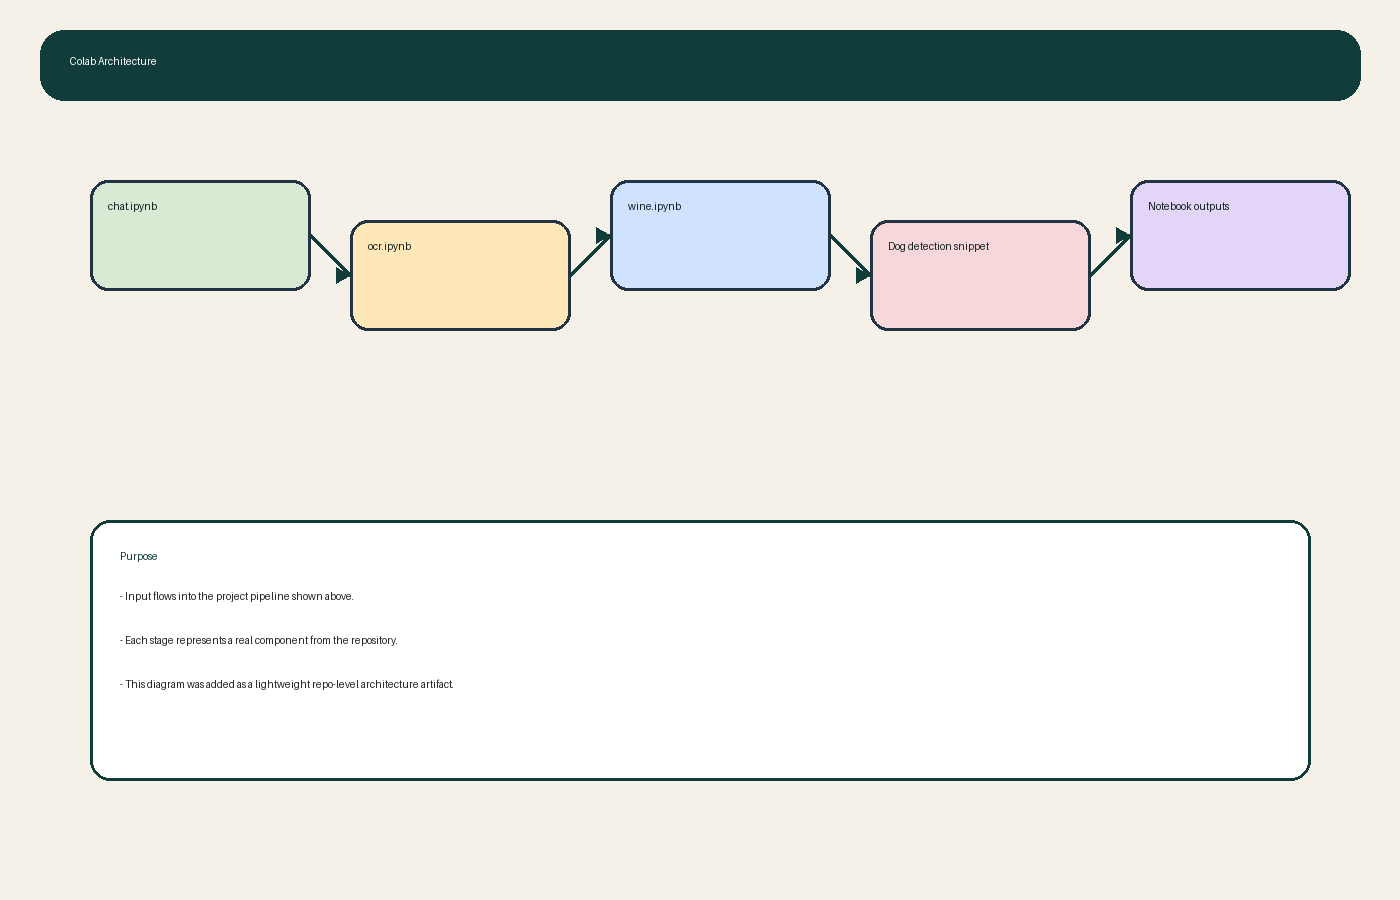
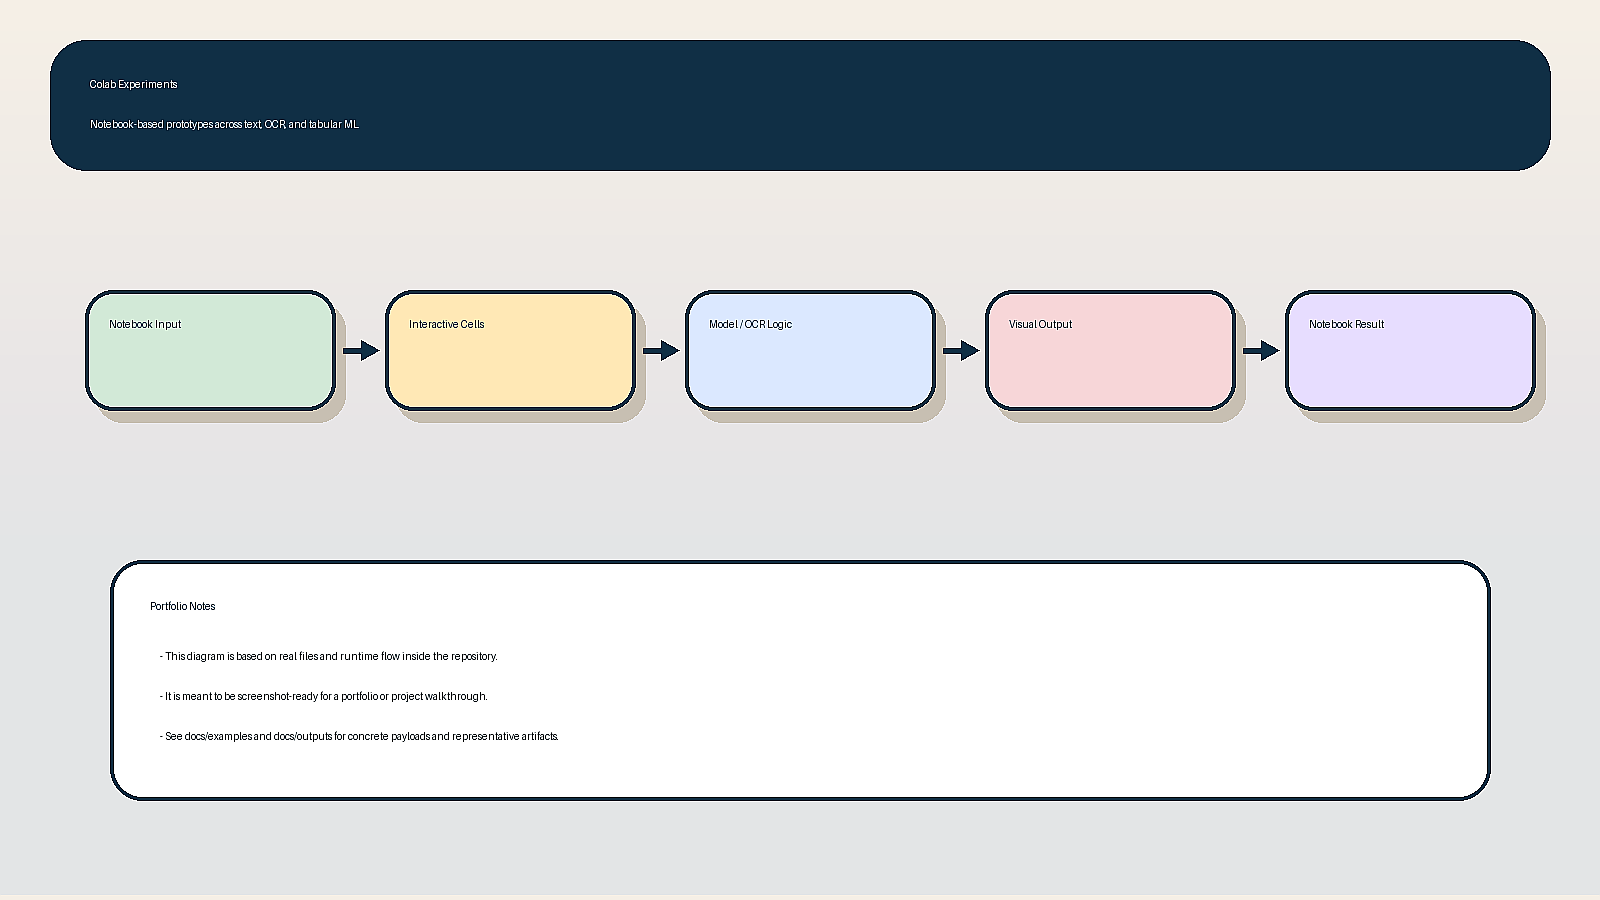
Polish architecture docs and add rich examples

Changed region(s): [[0.0307, 0.0311, 0.9829, 0.4978], [0.0614, 0.56, 0.9521, 0.9022]]

diff --git a/docs/sample_io.md b/docs/sample_io.md
@@ -1,24 +1,13 @@
 # Sample Inputs and Outputs
 
-## chat.ipynb
-### Sample input
-```text
-hello
-```
-### Sample output
-```text
-Hello!
-```
+## Example files
+- `examples/chat_session.txt`
+- `examples/ocr_result.txt`
+- `examples/wine_summary.csv`
+- `outputs/notebook_outputs.md`
 
-## ocr.ipynb
-### Sample input
-- `car.jpeg`
-### Sample output
-- extracted OCR text from the image
-- thresholded image visualization
-
-## wine.ipynb
-### Sample input
-- UCI red and white wine CSVs
-### Sample output
-- dataframe summaries, stats tables, and merged dataset preview
+## What these show
+- a representative chatbot dialogue
+- OCR extraction from an example image
+- tabular summary output from the wine notebook
+- notebook-level output notes for the repo

diff --git a/README.md b/README.md
@@ -84,3 +84,5 @@ flowchart TD
 - [Architecture diagram](docs/architecture.png)
 - [Evaluation logs and outputs](docs/evaluation.md)
 - [Sample inputs and outputs](docs/sample_io.md)
+- [Rich example assets](docs/examples/)
+- [Representative outputs](docs/outputs/)

diff --git a/docs/outputs/notebook_outputs.md b/docs/outputs/notebook_outputs.md
@@ -1,0 +1,5 @@
+# Notebook Output Notes
+
+- `chat.ipynb` returns rule-based responses.
+- `ocr.ipynb` visualizes bounding boxes and extracted text.
+- `wine.ipynb` prints dataframe summaries and merged dataset stats.
